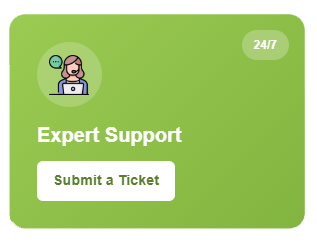
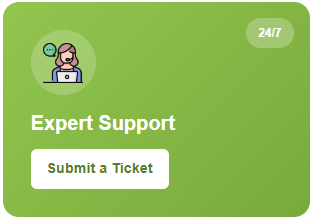
modify card

diff --git a/cards/style.css b/cards/style.css
@@ -10,12 +10,12 @@ body {
 
 /* Card */
 .support-card {
-    background: linear-gradient(135deg, #9BCB52, #82B440);
+    background: linear-gradient(135deg, #92c64f, #7AA93C);
     border-radius: 16px;
+    width: 307px;
     padding: 28px;
     height: 100%;
     color: #fff;
-    box-shadow: 0 20px 40px rgba(0, 0, 0, 0.25);
     position: relative;
 }
 
